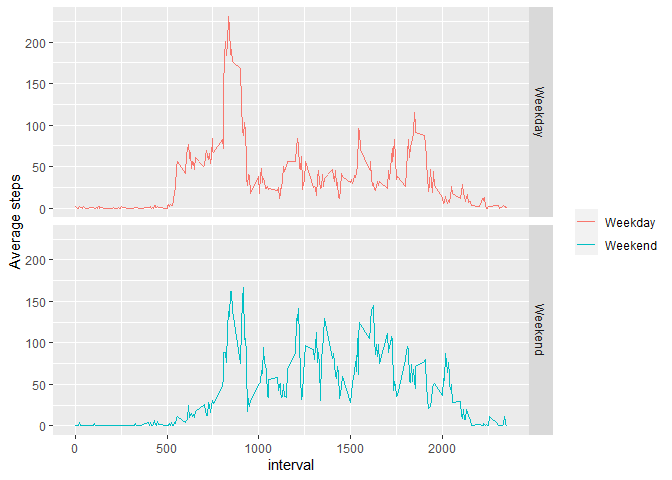
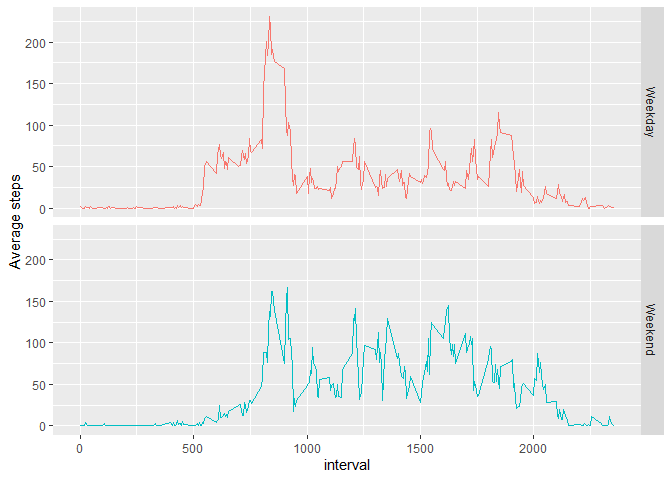
new commit

diff --git a/PA1_template.html b/PA1_template.html
@@ -387,18 +387,15 @@ hist(total$total, breaks = 10, xlab=&quot;&quot;, main=&quot;Histogram of the to
 </div>
 <div id="time-series-plot-of-the-average-number-of-steps-taken" class="section level2">
 <h2>Time series plot of the average number of steps taken</h2>
-<pre class="r"><code>aver &lt;- activity %&gt;%
-        group_by(date) %&gt;%
-        summarize(aver=mean(steps, na.rm=TRUE))
-plot(as.Date(aver$date), aver$aver, type=&quot;l&quot;, xlab=&quot;Date&quot;, ylab=&quot;Average Steps per 5 min&quot;)</code></pre>
[1 lines of base64/hex data omitted]
-</div>
-<div id="the-5-minute-interval-that-on-average-contains-the-maximum-number-of-steps" class="section level2">
-<h2>The 5-minute interval that, on average, contains the maximum number of steps</h2>
 <pre class="r"><code>aver_5min &lt;- activity %&gt;%
              group_by(interval) %&gt;%
              summarize(aver=mean(steps, na.rm=TRUE))
-aver_5min[which.max(aver_5min$aver),]</code></pre>
+plot(aver_5min$interval, aver_5min$aver, type=&quot;l&quot;, xlab=&quot;interval&quot;, ylab=&quot;Average Steps&quot;)</code></pre>
[1 lines of base64/hex data omitted]
+</div>
+<div id="the-5-minute-interval-that-on-average-contains-the-maximum-number-of-steps" class="section level2">
+<h2>The 5-minute interval that, on average, contains the maximum number of steps</h2>
+<pre class="r"><code>aver_5min[which.max(aver_5min$aver),]</code></pre>
 <pre><code>## # A tibble: 1 x 2
 ##   interval  aver
 ##      &lt;int&gt; &lt;dbl&gt;
@@ -446,8 +443,8 @@ hist(total$total, breaks=10, xlab=&quot;&quot;, main=&quot;Histogram of the tota
 
 g &lt;- ggplot(aver_5min_wd, aes(interval, aver, col=wkend))
 g + geom_line() + facet_grid(wkend~.) + 
-    labs(y=&quot;Average steps&quot;, col=&quot;&quot;)</code></pre>
[1 lines of base64/hex data omitted]
+    labs(y=&quot;Average steps&quot;) + theme(legend.position=&quot;none&quot;)</code></pre>
[1 lines of base64/hex data omitted]
 </div>
 
 

diff --git a/PA1_template.md b/PA1_template.md
@@ -46,10 +46,10 @@ print(paste("Median =", median(total$total)))
 ## Time series plot of the average number of steps taken
 
 ```r
-aver <- activity %>%
-        group_by(date) %>%
-        summarize(aver=mean(steps, na.rm=TRUE))
-plot(as.Date(aver$date), aver$aver, type="l", xlab="Date", ylab="Average Steps per 5 min")
+aver_5min <- activity %>%
+             group_by(interval) %>%
+             summarize(aver=mean(steps, na.rm=TRUE))
+plot(aver_5min$interval, aver_5min$aver, type="l", xlab="interval", ylab="Average Steps")
 ```
 
 ![](PA1_template_files/figure-html/unnamed-chunk-4-1.png)<!-- -->
@@ -57,9 +57,6 @@ plot(as.Date(aver$date), aver$aver, type="l", xlab="Date", ylab="Average Steps p
 ## The 5-minute interval that, on average, contains the maximum number of steps
 
 ```r
-aver_5min <- activity %>%
-             group_by(interval) %>%
-             summarize(aver=mean(steps, na.rm=TRUE))
 aver_5min[which.max(aver_5min$aver),]
 ```
 
@@ -128,7 +125,7 @@ aver_5min_wd <- activity_imputed %>%
 
 g <- ggplot(aver_5min_wd, aes(interval, aver, col=wkend))
 g + geom_line() + facet_grid(wkend~.) + 
-    labs(y="Average steps", col="")
+    labs(y="Average steps") + theme(legend.position="none")
 ```
 
 ![](PA1_template_files/figure-html/unnamed-chunk-10-1.png)<!-- -->
